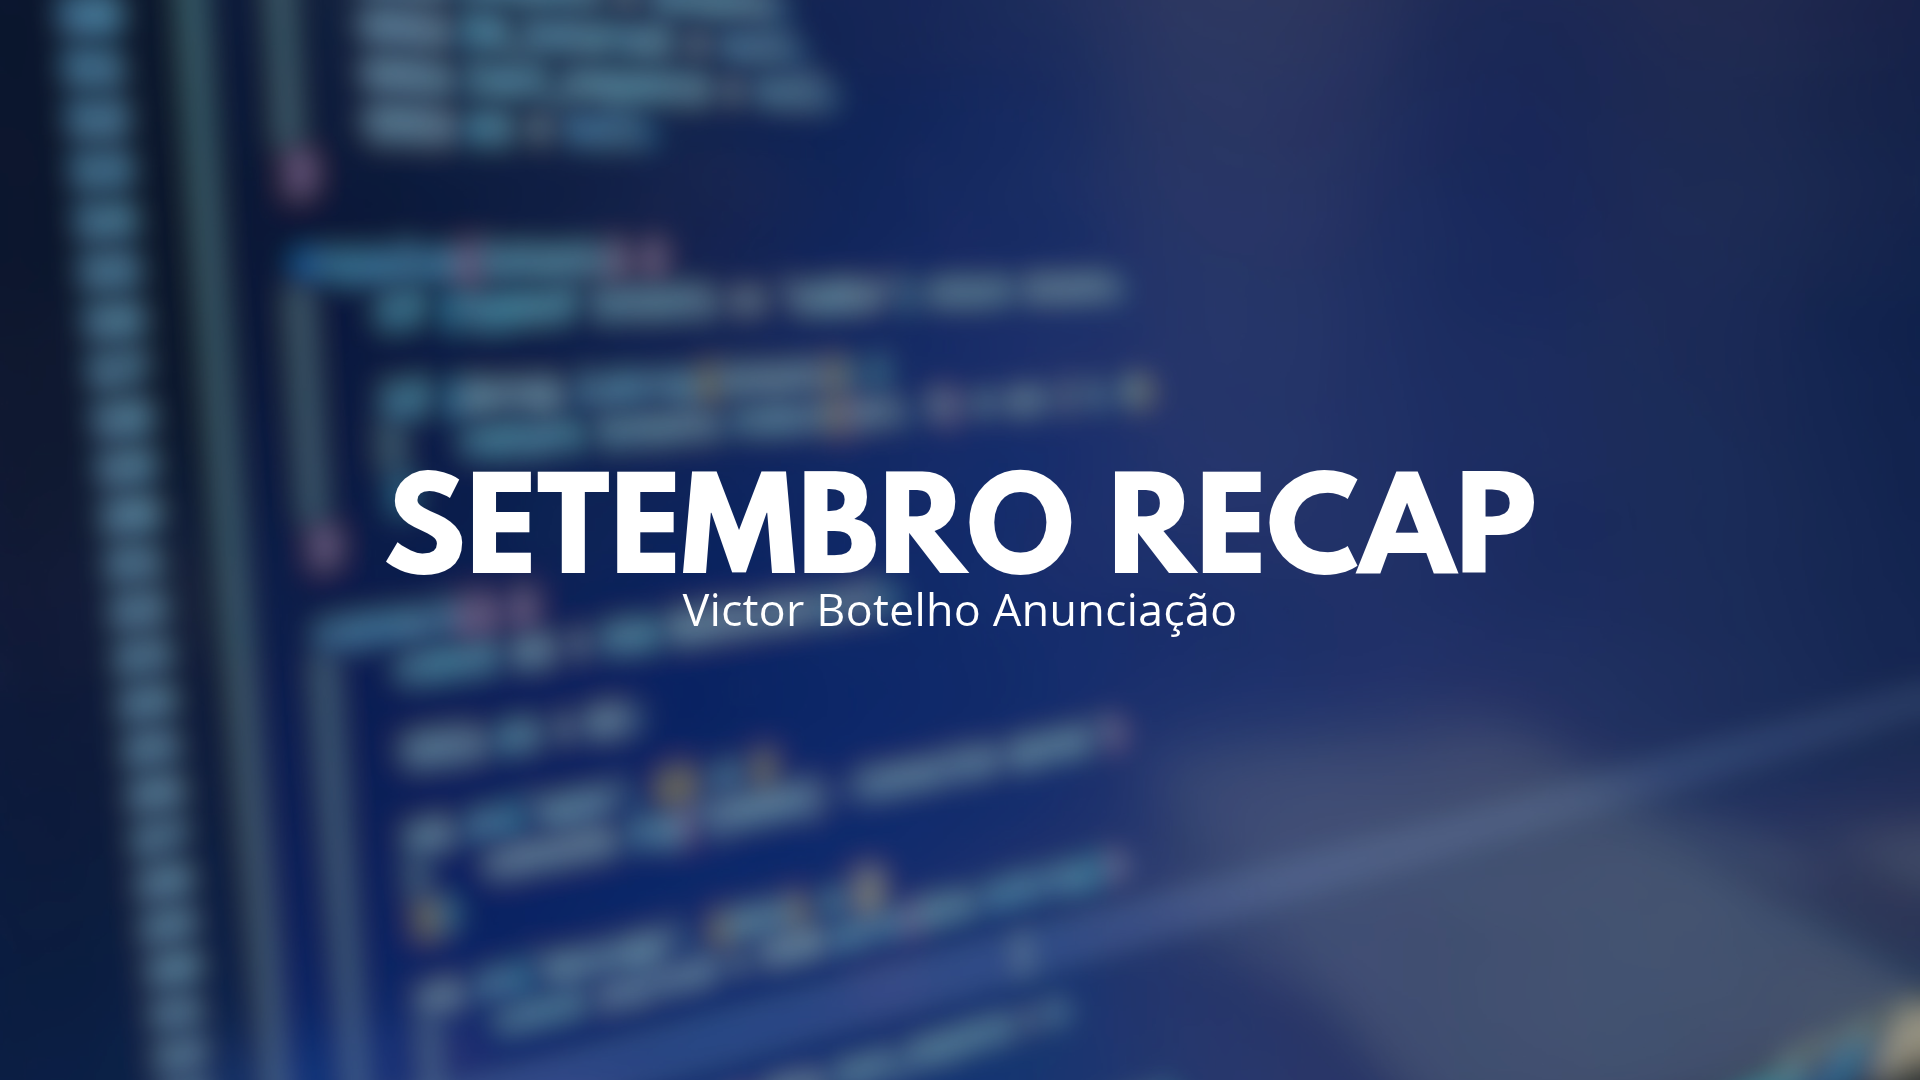
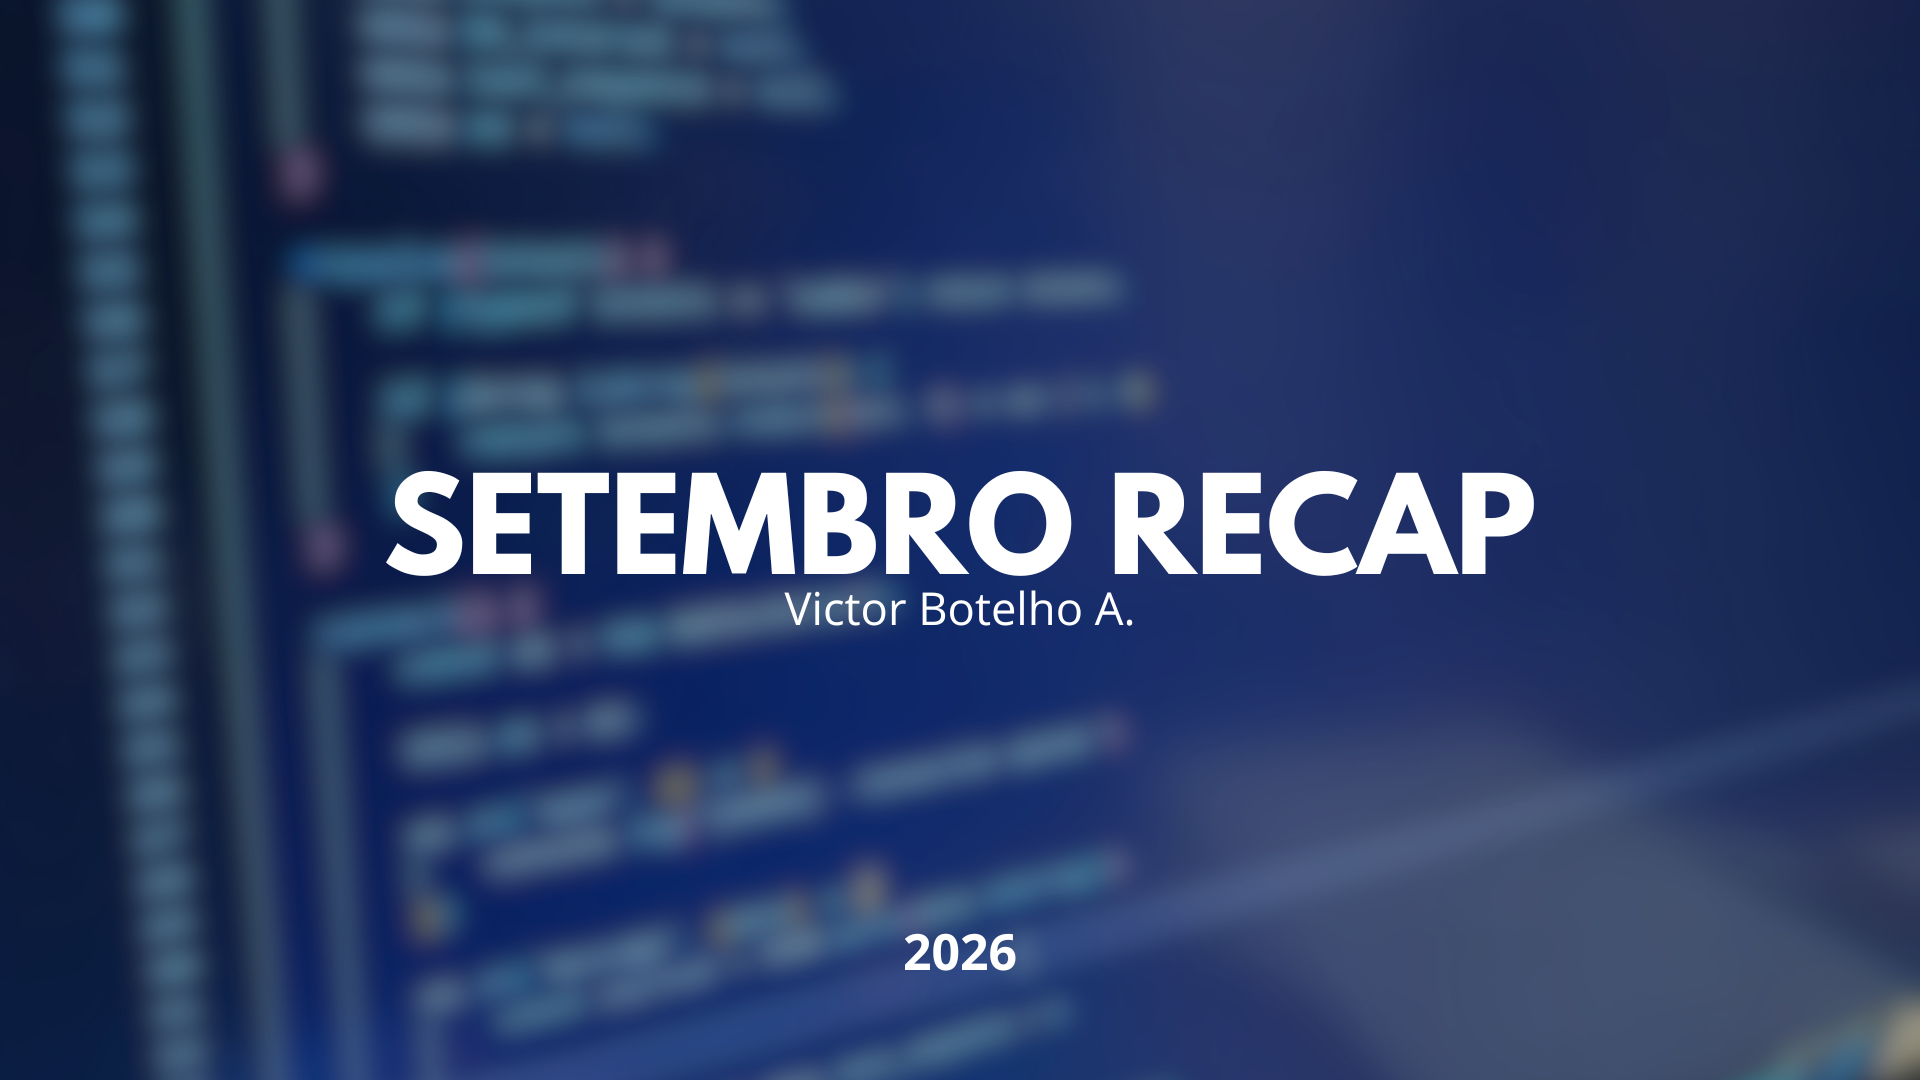
Outubro recap

Changed region(s): [[0.3438, 0.55, 0.6562, 0.5806], [0.4688, 0.8556, 0.5312, 0.9167]]

diff --git a/content/posts/recap-de-outubro.md b/content/posts/recap-de-outubro.md
@@ -1,0 +1,35 @@
+---
+id: recap-de-outubro
+title: "Recap de Outubro"
+description: "RECAP DE OUTUBRO - Victor Botelho"
+date: "2026-11-05"
+category: recap
+banner: "images/posts/out-recap.png"
+featured: true
+draft: false
+badges:
+tags:
+authors:
+  - "@Victor Botelho A.(https://victorbotelho.com.br)"
+buttons:
+---
+
+# Recap de Outubro de 2026
+
+Outubro foi marcado pelo grande avanço do **ProtoIndigo 2.1**.
+
+Estou reformando o CodeGen e o Tokenizer da linguagem, além de trazer novos conceitos e funcionalidades para deixá-la mais madura. Entre as novidades planejadas, está a introdução de funções na linguagem, que, junto com a **BreVM 0.0.3**, devem aproximar o ProtoIndigo de uma linguagem com mais recursos de programação funcional.
+
+Durante esse período, acabei deixando o SãoCraft e o Disfox de lado. Já o Pericode e o Quantic continuam como projetos de passatempo, sem tanta prioridade.
+
+Também adquiri bastante conhecimento em **C++**, ampliando minha base como programador e aprendendo novos conceitos, ferramentas e formas de estruturar meus projetos.
+
+Publiquei um novo projeto no GitHub chamado **FileSystem**, um wrapper para as bibliotecas `std::filesystem` e `std::fstream` do C++. Além disso, experimentei coisas novas, como a Node.js Native API, que permite integrar código C++ ao Node.js. Achei essa experiência muito interessante e fiquei com vontade de explorar ainda mais essa integração.
+
+Também tive mais contato com a API C do Luau e experimentei o **Sol2** pela primeira vez, uma biblioteca que facilita a integração entre C++ e Lua. Confesso que achei tudo muito mais fácil com ela, rs.
+
+Por fim, publiquei dois projetos: **LuaLooper** e **LuauLooper**, event loops desenvolvidos em Lua e Luau, respectivamente, inspirados nos conceitos de loop que venho explorando no Quantic.
+
+No geral, outubro foi um mês muito importante para o crescimento e amadurecimento do ProtoIndigo, mas também para minha evolução como programador. Aprendi bastante sobre C++, explorei novas ferramentas e experimentei diferentes formas de integrar linguagens e construir sistemas.
+
+**Foi um mês de aprendizado, experimentação e evolução.**

diff --git a/content/posts/protoindigo-2-1-0-beta.md b/content/posts/protoindigo-2-1-0-beta.md
@@ -5,7 +5,7 @@ description: "ProtoIndigo 2.1.0-beta já está disponível! Bora conferir tudo o
 date: "2026-10-19"
 category: projects
 banner: "images/posts/pit2.1.0-beta.png"
-featured: true
+featured: false
 draft: false
 badges: []
 tags: []
